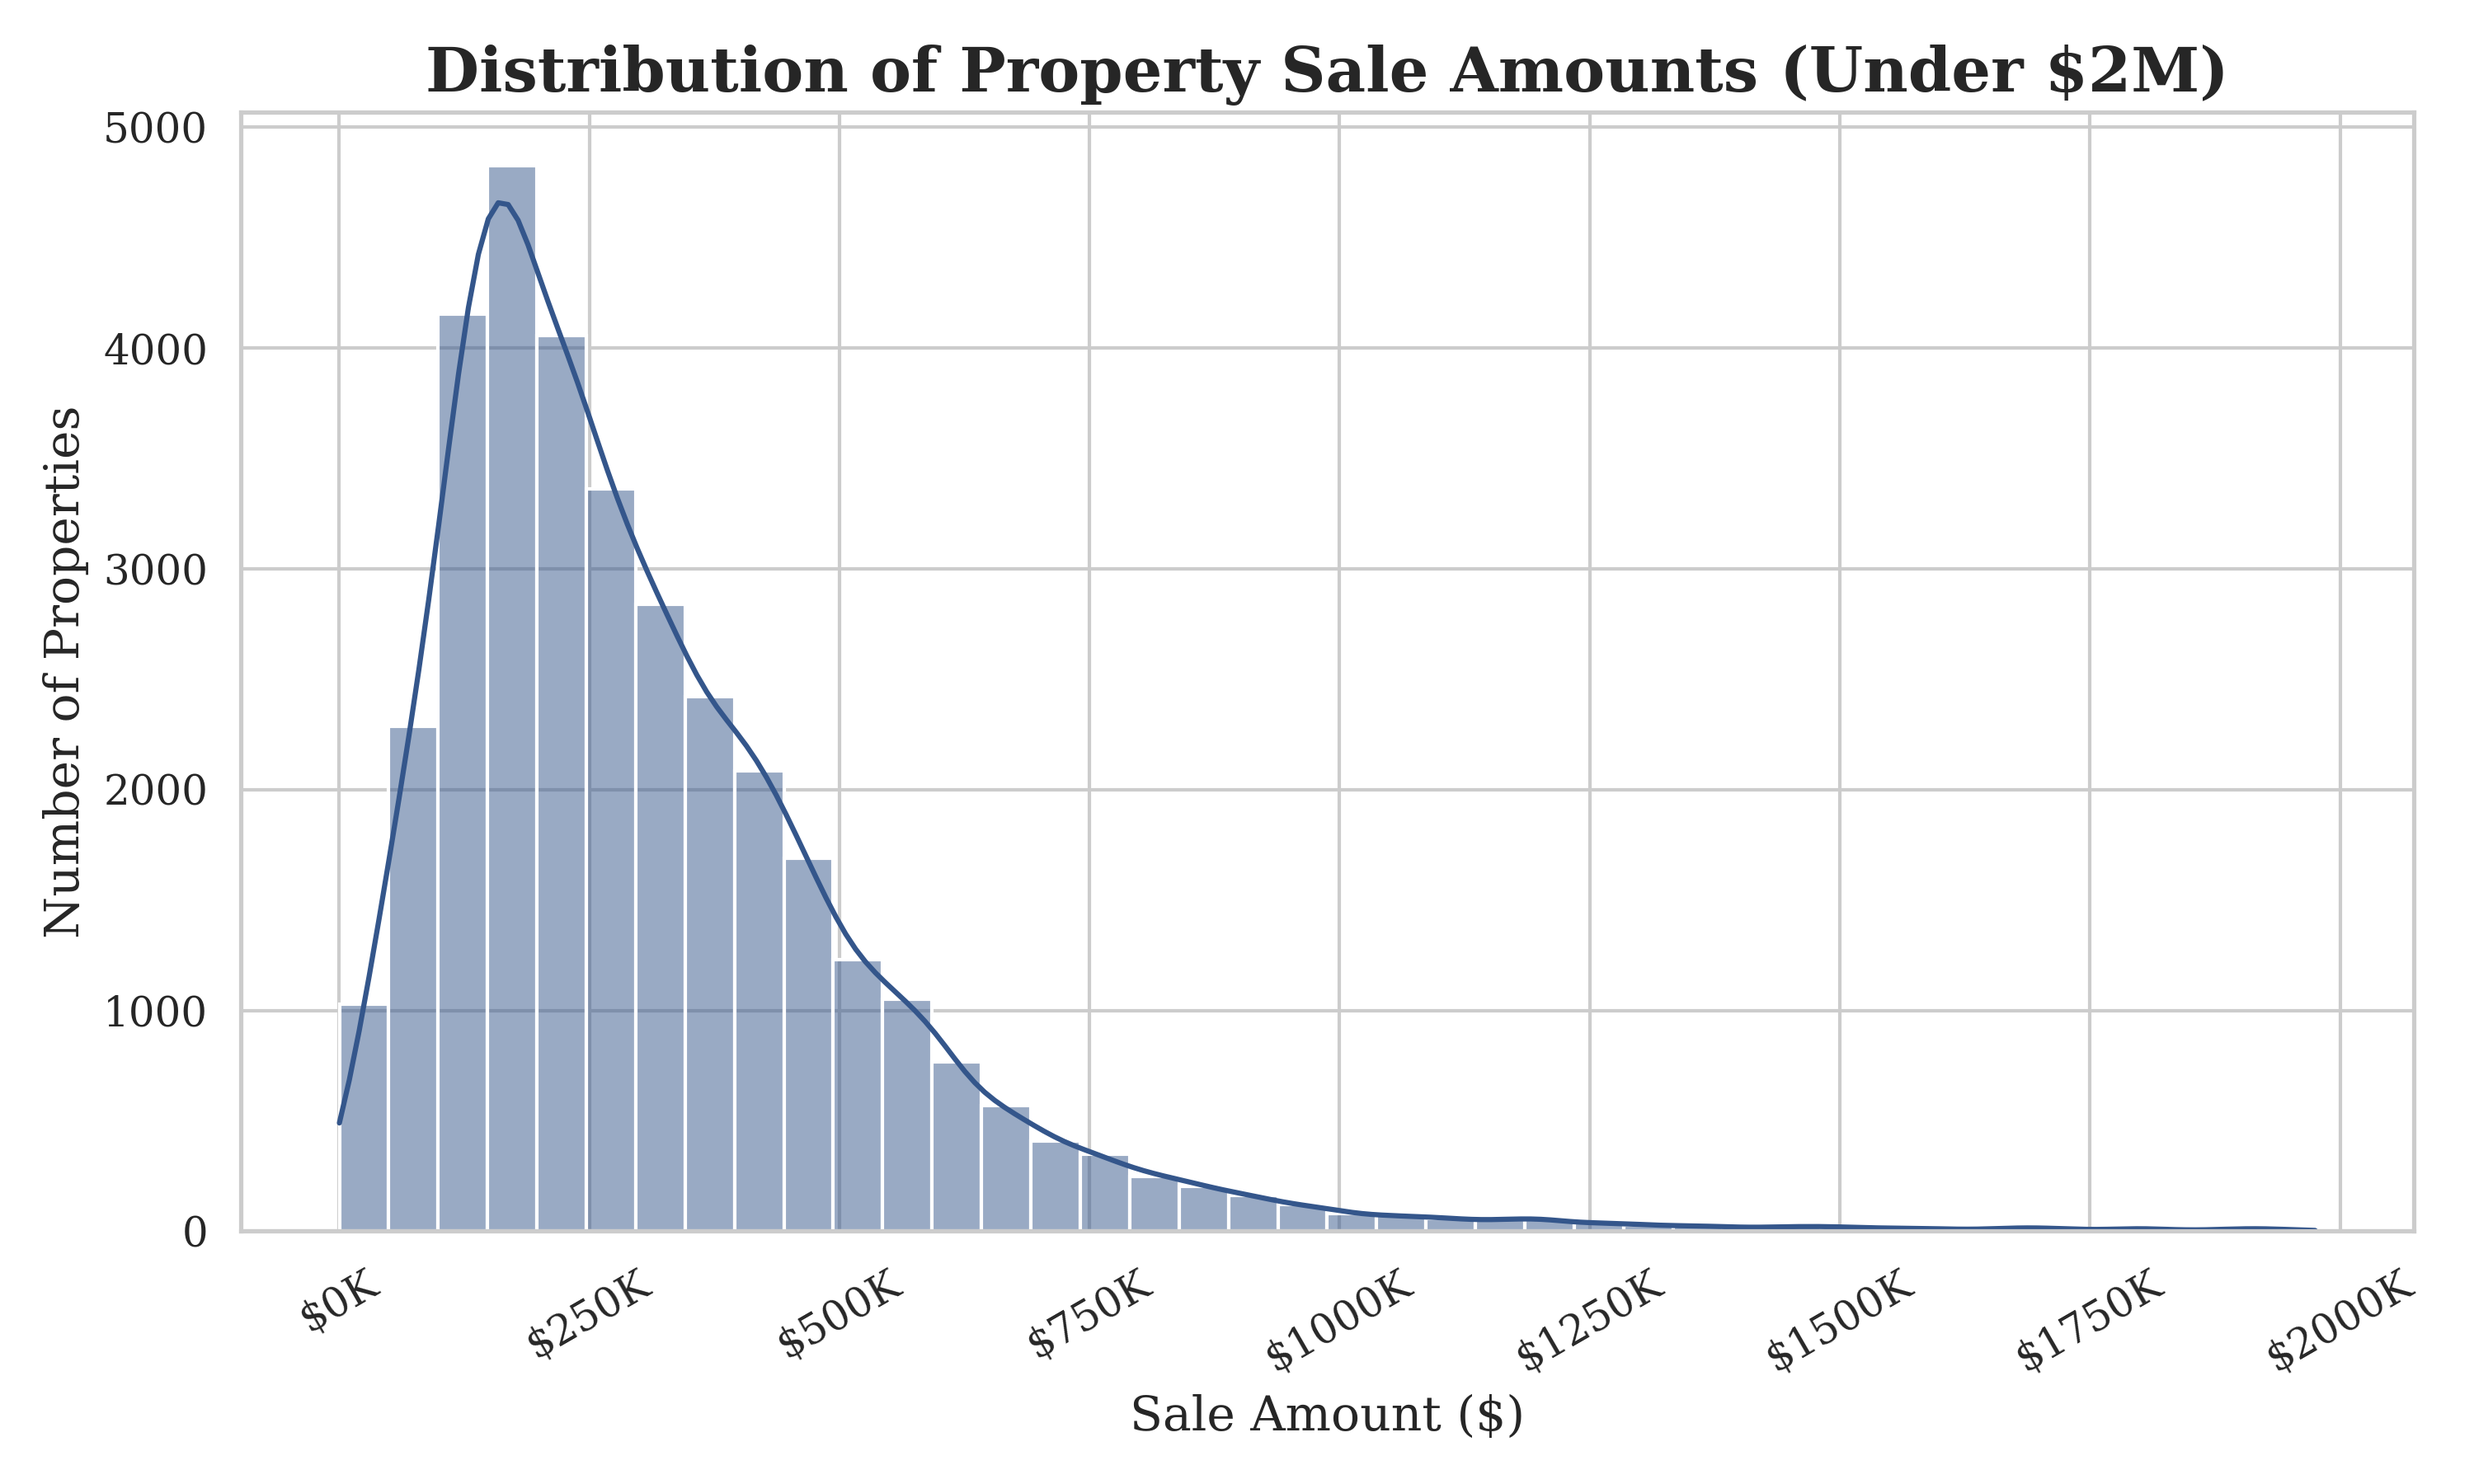
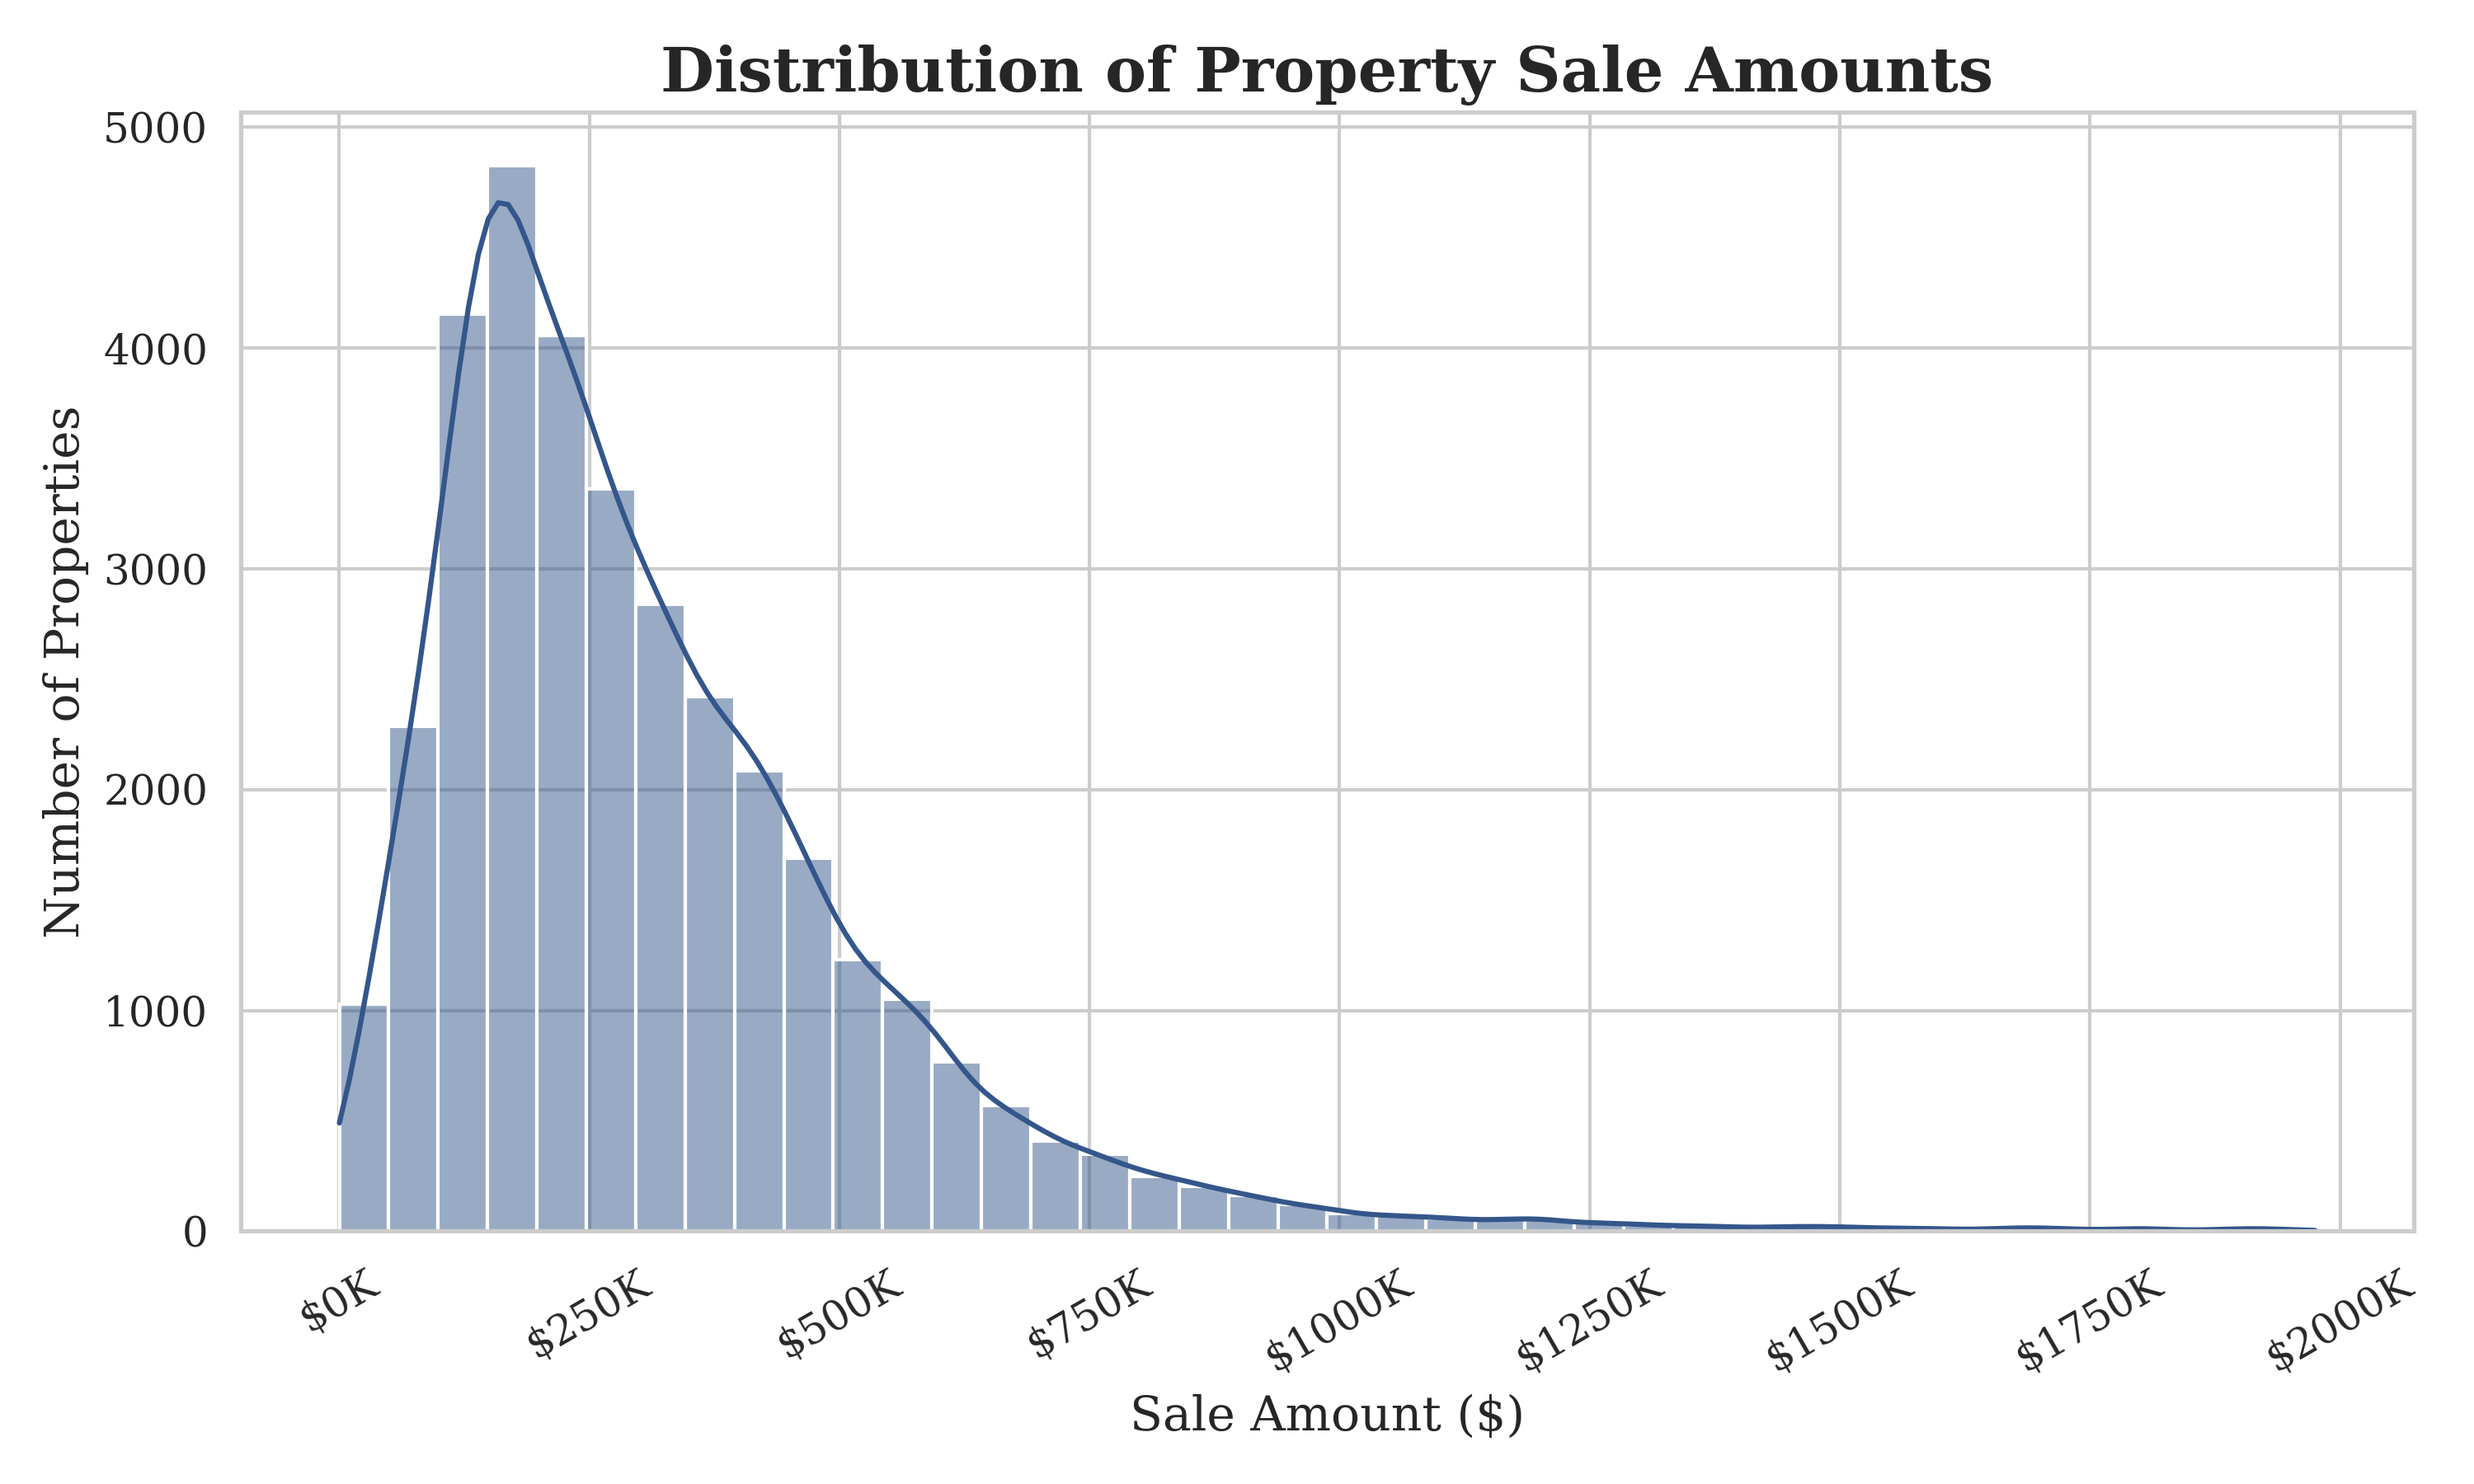
Built site for gh-pages

Changed region(s): [[0.155, 0.0311, 0.899, 0.0622]]

diff --git a/index.html b/index.html
@@ -169,7 +169,7 @@ window.Quarto = {
 
 <section id="introduction" class="level1">
 <h1>Introduction</h1>
-<p>For seasoned real estate professionals, the ability to accurately estimate a property’s market value and time on the market is a cornerstone of their expertise. This intuition, developed over years of experience, provides a significant advantage in a competitive landscape. However, for newcomers—be it first-time homebuyers navigating a complex process or new agents striving to build a successful career—this knowledge is not readily available. This project aims to bridge that knowledge gap within Oregon’s dynamic housing market by leveraging data science to uncover the key drivers of property valuation.</p>
+<p>For seasoned real estate professionals, the ability to accurately estimate a property’s market value and time on the market is a cornerstone of their expertise. This intuition, developed over years of experience, provides a significant advantage in a competitive landscape. However, for newcomers,be it first-time homebuyers navigating a complex process or new agents striving to build a successful career, this knowledge is not readily available. This project aims to bridge that knowledge gap within Oregon’s dynamic housing market by leveraging data science to uncover the key drivers of property valuation.</p>
 <p>The central research question guiding this project is: <strong>Which quantifiable property characteristics in Oregon are the most significant predictors of a residential real estate property’s final sale price and its time on the market?</strong>. While this paper will focus on predicting the final sale price, the groundwork is laid for a future survival analysis to address the time-on-market component.</p>
 </section>
 <section id="background" class="level1">
@@ -203,10 +203,10 @@ window.Quarto = {
 <div id="fig-dist" class="quarto-float quarto-figure quarto-figure-center anchored">
 <figure class="quarto-float quarto-subfloat-fig figure">
 <div aria-describedby="fig-dist-caption-0ceaefa1-69ba-4598-a22c-09a6ac19f8ca">
-<a href="visual_1_sale_amount_distribution.png" class="lightbox" data-gallery="fig-distribution" title="Figure&nbsp;1&nbsp;(a): Distribution of Property Sale Amounts (Under $2M)."><img src="visual_1_sale_amount_distribution.png" class="img-fluid figure-img" data-ref-parent="fig-distribution"></a>
+<a href="visual_1_sale_amount_distribution.png" class="lightbox" data-gallery="fig-distribution" title="Figure&nbsp;1&nbsp;(a): Distribution of Property Sale Amounts."><img src="visual_1_sale_amount_distribution.png" class="img-fluid figure-img" data-ref-parent="fig-distribution"></a>
 </div>
 <figcaption class="quarto-float-caption-bottom quarto-subfloat-caption quarto-subfloat-fig" id="fig-dist-caption-0ceaefa1-69ba-4598-a22c-09a6ac19f8ca">
-(a) Distribution of Property Sale Amounts (Under $2M).
+(a) Distribution of Property Sale Amounts.
 </figcaption>
 </figure>
 </div>
@@ -304,7 +304,7 @@ Figure&nbsp;4: This bar chart displays the model’s coefficients, quantifying t
 <p>However, the analysis also highlighted significant limitations that provide a clear path for future work. Our statistical tests revealed strong multicollinearity in the feature set, which makes the specific impact of any single feature difficult to isolate. Furthermore, our decision to drop records with missing data, while expedient, resulted in the loss of over half our initial data and may have introduced sampling bias.</p>
 <p>To build upon this foundation and create a more robust and reliable tool, the next steps are clear:</p>
 <ol type="1">
-<li><strong>Improve Data Integrity</strong>: Implement sophisticated imputation techniques (e.g., K-Nearest Neighbors or iterative imputation) to handle missing values, thereby retaining a larger and more representative dataset.</li>
+<li><strong>Improve Data Integrity</strong>: Implement sophisticated imputation techniques to handle missing values, thereby retaining a larger and more representative dataset.</li>
 <li><strong>Address Multicollinearity</strong>: Employ regularization methods such as Ridge or Lasso regression, which are specifically designed to handle multicollinearity and produce more stable and interpretable feature coefficients.</li>
 <li><strong>Advance the Modeling</strong>: Develop more complex, non-linear models, such as Gradient Boosting or Random Forests, to capture more nuanced relationships in the data and likely improve predictive accuracy.</li>
 <li><strong>Complete the Research Question</strong>: Conduct the planned <strong>Survival Analysis</strong> to model the ‘time on market’ component, which will provide a holistic tool for evaluating real estate opportunities in Oregon.</li>
